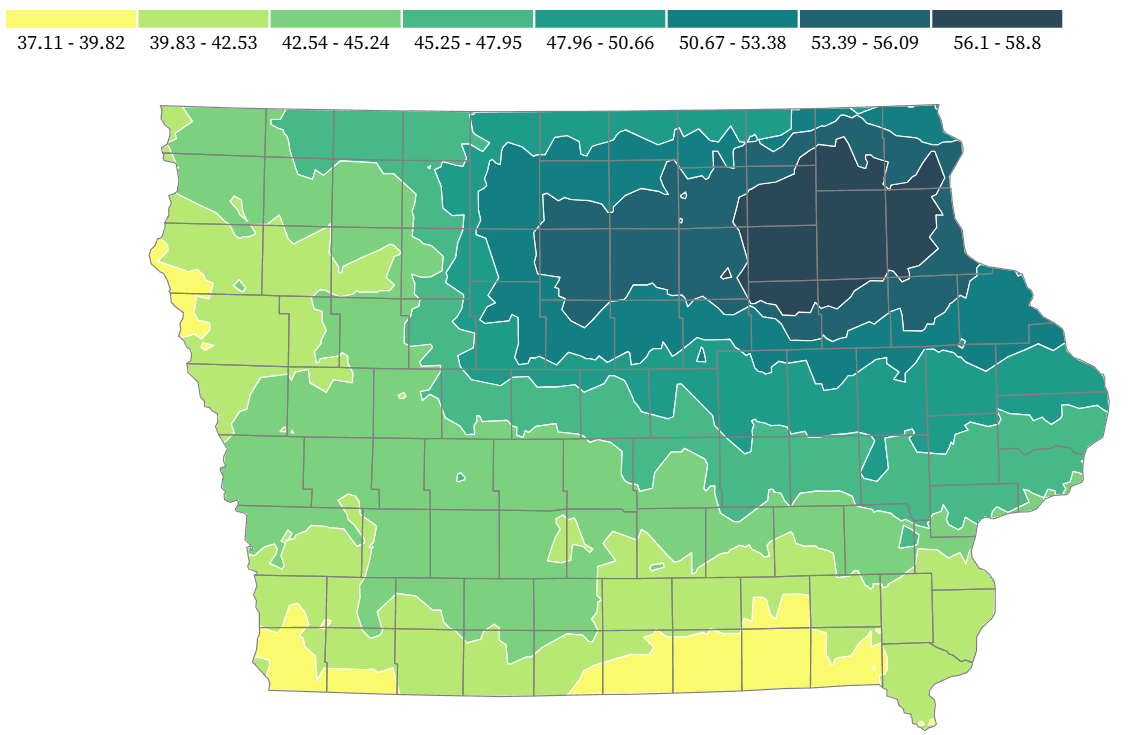
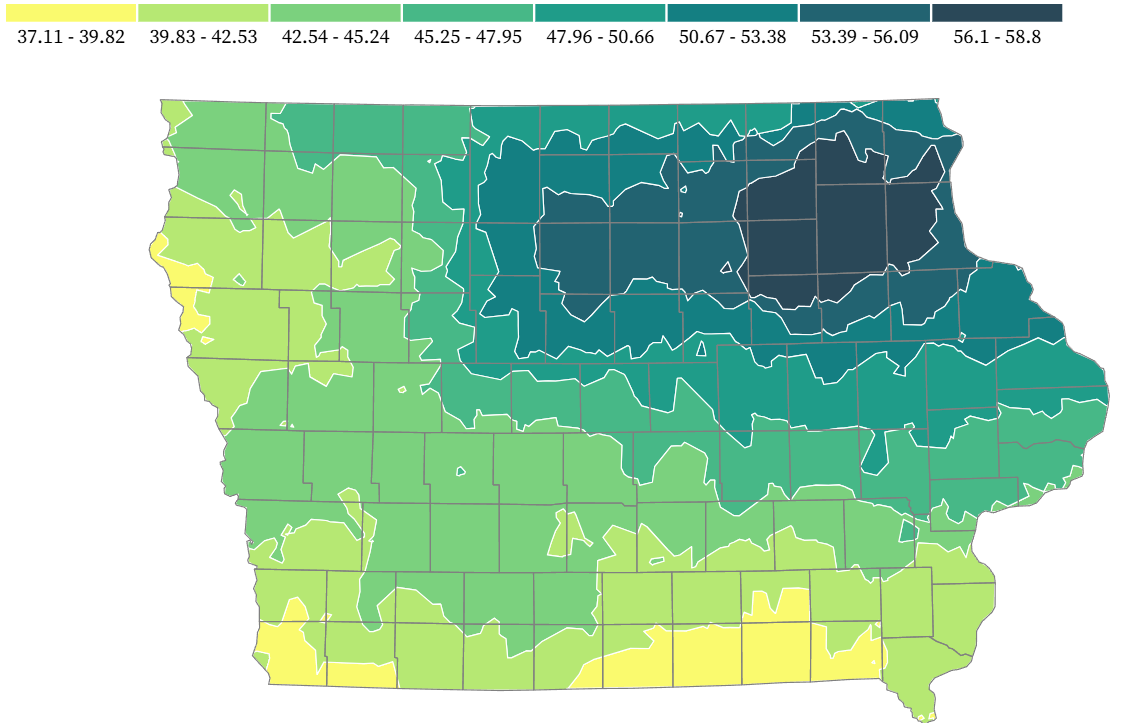
final project

diff --git a/index.html b/index.html
@@ -57,9 +57,9 @@
       </h1>
 
       <div class="row">
-        <div class="col-lg-3 col-sm-6 portfolio-item">
+        <div class="col-lg-4 col-sm-6 portfolio-item">
           <div class="card h-100">
-            <a href="https://observablehq.com/d/c013503af6fb65a2"><img class="card-img-top" src="images/chloropleth_map.png" alt=""></a>
+            <a href="https://observablehq.com/d/c013503af6fb65a2"><img class="card-img-top" src="images/bachelors.png" alt=""></a>
             <div class="card-body">
               <h4 class="card-title">
                 <a href="https://observablehq.com/d/c013503af6fb65a2"> Percent Bachelors Degree in Michigan </a>
@@ -75,7 +75,7 @@
               <h4 class="card-title">
                 <a href="https://observablehq.com/d/b3484773f76a0bfb">Green House Gas Emissions</a>
               </h4>
-              <p class="card-text">There is a large amount of GHG emissions all across the United States. The most appear to be around highly populated areas and large cities on the east coast.</p>
+              <p class="card-text">In this proportional symbols map, there is a large amount of GHG emissions all across the United States. The most appear to be around highly populated areas and large cities on the east coast.</p>
             </div>
           </div>
         </div>
@@ -86,7 +86,7 @@
               <h4 class="card-title">
                 <a href="https://observablehq.com/d/c360597169208e07">Unemployed vs Disabilities in Los Angeles</a>
               </h4>
-              <p class="card-text">This map looks at the census level in Los Angeles of percent unemployed vs percent with disabilities. There is little to no correlation between the two variables as there are not many areas where there is both high unemployment and high percent disabilites.</p>
+              <p class="card-text">This map looks at the census level in Los Angeles of percent unemployed vs percent with disabilities. There is little to no correlation between the two variables. there are not many areas where there is both high unemployment and high percent disabilites.</p>
             </div>
           </div>
         </div>
@@ -97,29 +97,29 @@
               <h4 class="card-title">
                 <a href="flowmap.html">Divvy Bike Flow in Chicago</a>
               </h4>
-              <p class="card-text">There is a large amount of bike flow close to the lake. There is less bike activity getting further into the city and away from the coastline.</p>
+              <p class="card-text">There is a high amount of bike flow within chicago. The main bike flow appears to occur close to the lake. There is less bike activity getting further into the city and away from the coastline. The points represent end destinations. High values of end destination are correlated with high amounts of bike flow. </p>
             </div>
           </div>
         </div>
-        <div class="col-lg-3 col-sm-6 portfolio-item">
+        <div class="col-lg-4 col-sm-6 portfolio-item">
           <div class="card h-100">
             <a href="https://observablehq.com/d/5cd57d1bde8bfc75"><img class="card-img-top" src="images/isarithmic.png" alt=""></a>
             <div class="card-body">
               <h4 class="card-title">
                 <a href="https://observablehq.com/d/5cd57d1bde8bfc75">Yearly Total Precipitation in Iowa</a>
               </h4>
-              <p class="card-text">In this isarithmic map we find the highest precipitation happening in northeast Iowa whereas the lowest precipitation occurs in the southwest.</p>
+              <p class="card-text">Isarithmic mapping was used to map out yearly precipitation in Iowa. We find the highest precipitation happening in northeast Iowa whereas the lowest precipitation occurs in the southwest.</p>
             </div>
           </div>
         </div>
         <div class="col-lg-4 col-sm-6 portfolio-item">
           <div class="card h-100">
-            <a href="#"><img class="card-img-top" src="http://placehold.it/700x400" alt=""></a>
+            <a href="https://owhiting4.github.io/BOB_IAGreatLakes/"><img class="card-img-top" src="images/okoboji.png" alt=""></a>
             <div class="card-body">
               <h4 class="card-title">
-                <a href="#">Project Six</a>
+                <a href="https://owhiting4.github.io/BOB_IAGreatLakes/">Disease spread among Bur Oak Trees Project</a>
               </h4>
-              <p class="card-text"></p>
+              <p class="card-text">In this project disease spread was tracked among bur oak trees in the Iowa Great Lakes area. We used vector data to visualize trees being effected. We distributed the data into four sections around the Iowa Great Lakes: Gull Point, Hales Slough, Kenue Park, and Lakeside Lab. From here we identified spread, recovery, and potential causes of disease spread.  </p>
             </div>
           </div>
         </div>
